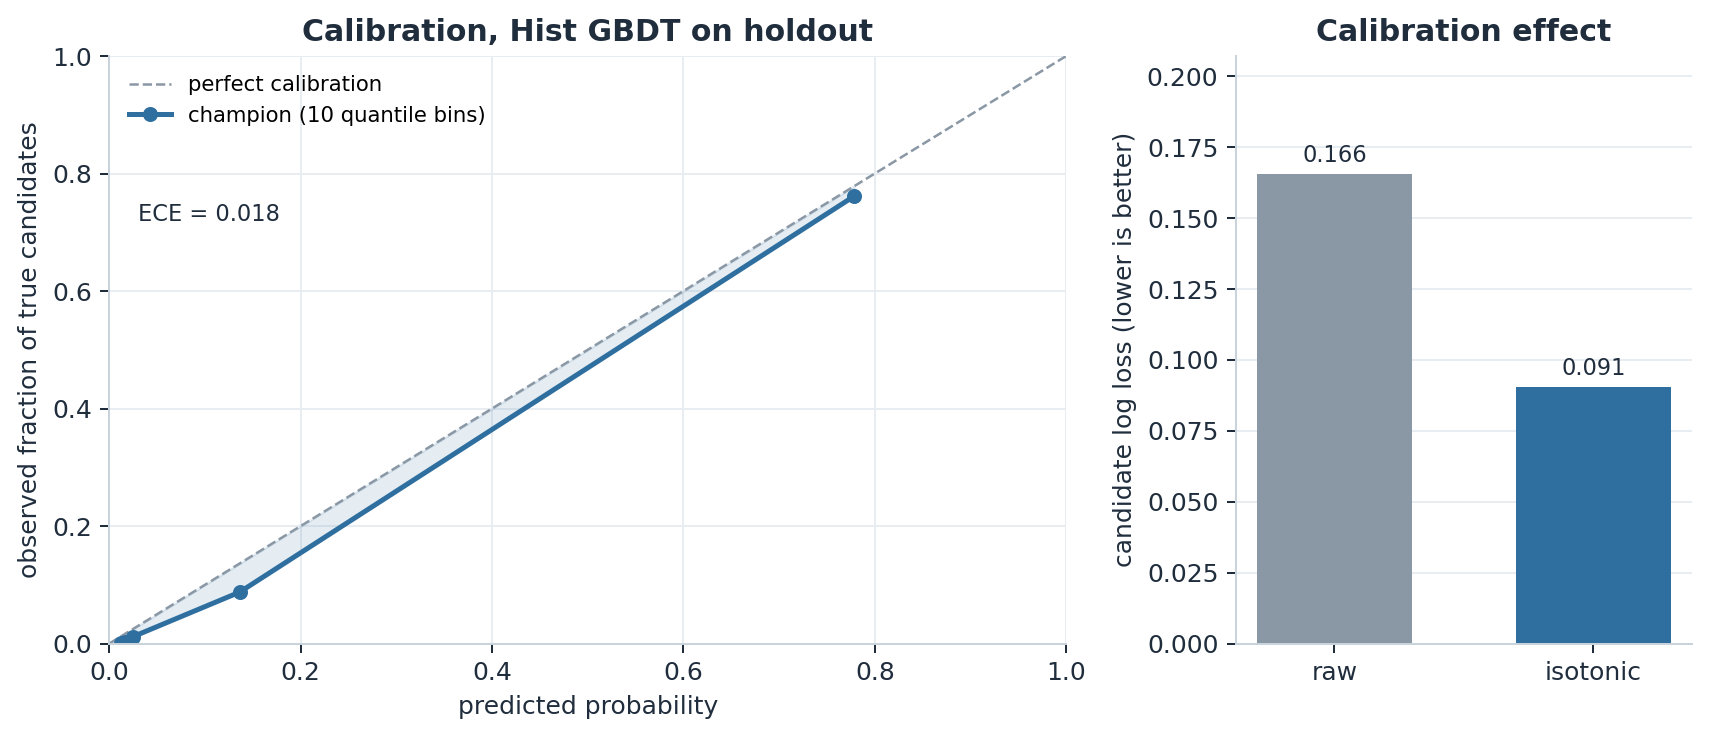
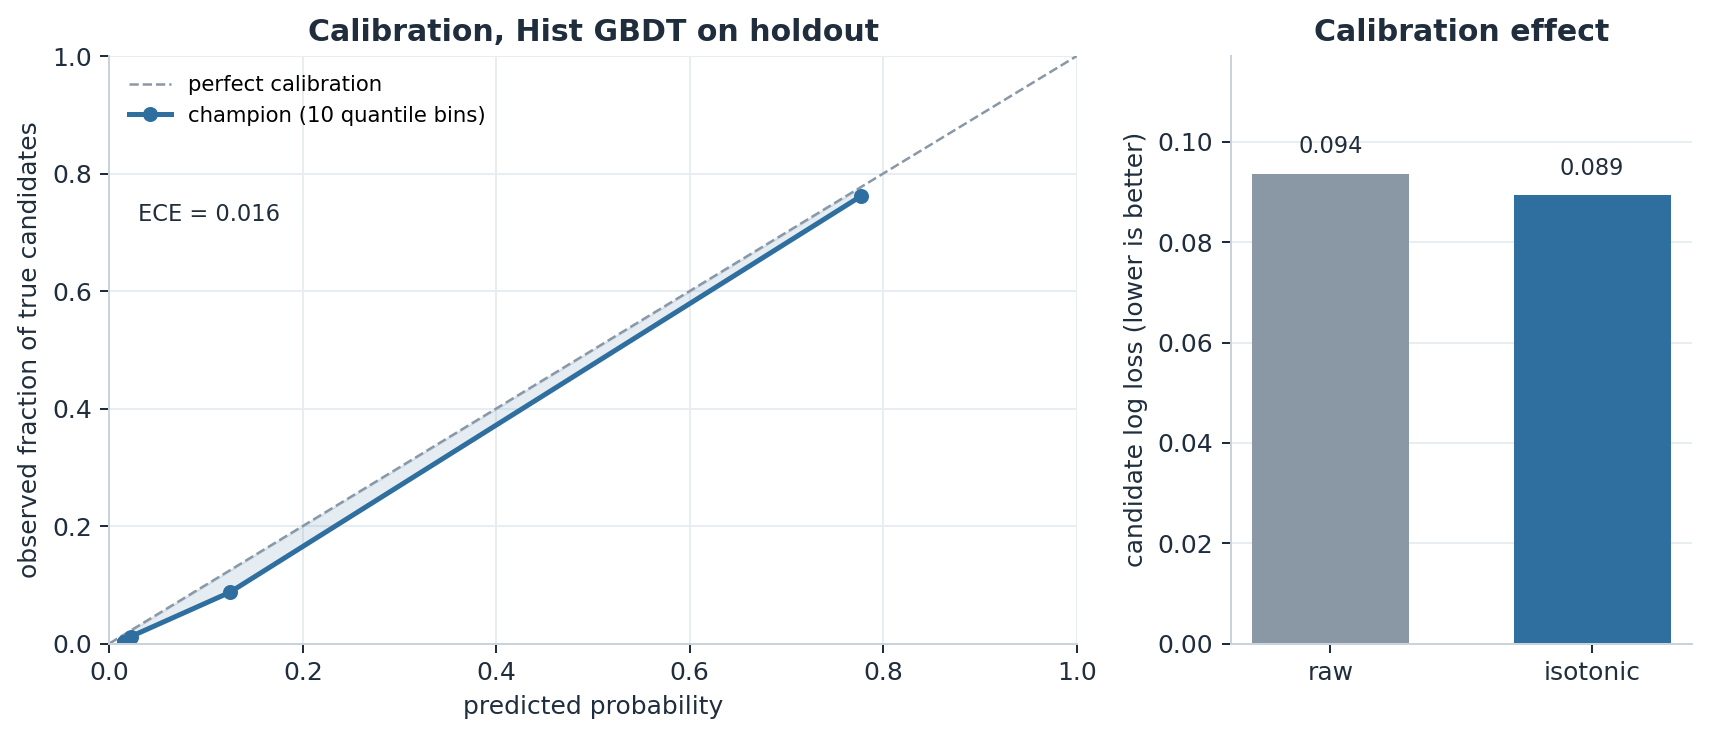
Tune the champion with Bayesian search and promote the tuned bundle
60 TPE trials over a six-parameter Hist GBDT space, grouped 3-fold inner CV on
the dev trips, median-pruned (28 pruned), objective = mean candidate log loss
because that is what the Viterbi decoder consumes. Best config halves CV log
loss (0.188 -> 0.124) at a 0.002 Top-1 cost inside fold noise, and holdout
macro F1 rises 0.817 -> 0.927. Also fixes --params-file so the Optuna
best_params envelope is unwrapped instead of being merged as model kwargs.

diff --git a/scripts/make_tuning_figure.py b/scripts/make_tuning_figure.py
@@ -1,0 +1,179 @@
+#!/usr/bin/env python3
+"""Bayesian tuning figures for report section 7 (owner: B).
+
+Draws the Optuna search history from ``artifacts/optuna_hist_gbdt.db`` and the
+tuned-versus-untuned comparison from ``results/model_runs.csv`` so both pictures
+come from recorded trials, not hand-written numbers.
+
+    python scripts/make_tuning_figure.py
+"""
+from __future__ import annotations
+
+import argparse
+import sys
+from pathlib import Path
+
+import matplotlib
+
+matplotlib.use("Agg")
+
+import matplotlib.pyplot as plt
+import numpy as np
+import pandas as pd
+
+ROOT = Path(__file__).resolve().parents[1]
+sys.path.insert(0, str(ROOT / "src"))
+
+from pathsnap.config import results_dir
+
+INK = "#1f2d3d"
+MUTED = "#9aa0a6"
+ACCENT = "#2f6f9f"
+WARN = "#c0392b"
+LIGHT = "#a8c8df"
+
+
+def _style() -> None:
+    plt.rcParams.update(
+        {
+            "figure.dpi": 110,
+            "savefig.dpi": 180,
+            "savefig.bbox": "tight",
+            "font.size": 10,
+            "axes.edgecolor": "#c9d3dc",
+            "axes.spines.top": False,
+            "axes.spines.right": False,
+            "axes.grid": True,
+            "grid.color": "#e8edf1",
+            "axes.axisbelow": True,
+            "legend.frameon": False,
+            "figure.facecolor": "white",
+        }
+    )
+
+
+def _trial_points(study) -> tuple[np.ndarray, np.ndarray, np.ndarray, np.ndarray]:
+    """(trial numbers, values, best-so-far) with pruned trials marked separately."""
+    numbers, values, pruned_x, pruned_y, best_y = [], [], [], [], []
+    best = np.inf
+    for trial in study.trials:
+        if trial.state.name == "COMPLETE" and trial.value is not None:
+            value = float(trial.value)
+            numbers.append(trial.number)
+            values.append(value)
+            best = min(best, value)
+            best_y.append(best)
+        elif trial.state.name == "PRUNED":
+            history = trial.intermediate_values or {}
+            if history:
+                pruned_x.append(trial.number)
+                pruned_y.append(history[max(history)])
+    return (
+        np.array(numbers, dtype=float),
+        np.array(values, dtype=float),
+        np.array(pruned_x, dtype=float),
+        np.array(pruned_y, dtype=float),
+        np.array(best_y, dtype=float),
+    )
+
+
+def fig_history(study, out: Path) -> Path:
+    numbers, values, pruned_x, pruned_y, best_y = _trial_points(study)
+    fig, ax = plt.subplots(figsize=(7.6, 4.4), constrained_layout=True)
+    if len(pruned_x):
+        ax.scatter(pruned_x, pruned_y, s=14, color=MUTED, alpha=0.7, zorder=2, label="pruned trial")
+    ax.scatter(numbers, values, s=18, color=LIGHT, edgecolor=ACCENT, linewidth=0.6, zorder=3, label="completed trial")
+    ax.plot(numbers, best_y, color=WARN, linewidth=2.0, zorder=4, label="best so far")
+    ax.set_xlabel("trial")
+    ax.set_ylabel("objective: mean candidate log loss")
+    ax.set_title("Bayesian search history — Hist GBDT (TPE, 60 trials, 28 pruned)", color=INK, weight="semibold")
+    ax.legend(loc="upper right", fontsize=9)
+    path = out / "tuning_history.png"
+    fig.savefig(path)
+    plt.close(fig)
+    return path
+
+
+def _untuned_and_tuned_rows() -> tuple[pd.Series, pd.Series]:
+    runs = pd.read_csv(results_dir() / "model_runs.csv")
+    rows = runs[(runs["family"] == "hist_gbdt") & runs["holdout_top1"].notna()]
+    if len(rows) < 2:
+        raise SystemExit("Need both an untuned and a tuned hist_gbdt row in results/model_runs.csv")
+    untuned = rows[rows["params"].str.contains('"learning_rate": 0.1', na=False)]
+    tuned = rows[~rows.index.isin(untuned.index)]
+    if untuned.empty or tuned.empty:
+        untuned = rows.sort_values("utc").iloc[[0]]
+        tuned = rows.sort_values("utc").iloc[[-1]]
+    return untuned.iloc[0], tuned.iloc[0]
+
+
+def fig_tuned_vs_untuned(out: Path) -> Path:
+    untuned, tuned = _untuned_and_tuned_rows()
+    pairs = [
+        ("CV log loss", "cv_log_loss_mean", True),
+        ("Holdout log loss", "holdout_log_loss", True),
+        ("Holdout log loss (calibrated)", "holdout_log_loss_cal", True),
+        ("Holdout Top-1", "holdout_top1", False),
+        ("Student-test Top-1", "test_top1", False),
+        ("Holdout macro F1", "holdout_macro_f1", False),
+    ]
+    x = np.arange(len(pairs))
+    width = 0.36
+    before = [float(untuned[col]) for _, col, _ in pairs]
+    after = [float(tuned[col]) for _, col, _ in pairs]
+    deltas = [b - a for b, a in zip(before, after)]
+    lower_is_better = [inv for _, _, inv in pairs]
+    labels = [name for name, _, _ in pairs]
+
+    fig, ax = plt.subplots(figsize=(8.6, 4.6), constrained_layout=True)
+    bars_a = ax.bar(x - width / 2, before, width, color=LIGHT, label="untuned", zorder=3)
+    bars_b = ax.bar(x + width / 2, after, width, color=ACCENT, label="tuned", zorder=3)
+    for bar, delta, better_low in zip(bars_b, deltas, lower_is_better):
+        improvement = (delta > 0) if better_low else (delta < 0)
+        text = f"{'+' if delta < 0 else '−'}{abs(delta):.3f}"
+        ax.annotate(
+            text,
+            (bar.get_x() + bar.get_width() / 2, bar.get_height()),
+            xytext=(0, 4),
+            textcoords="offset points",
+            ha="center",
+            fontsize=8,
+            color="#1e7d32" if improvement else WARN,
+            weight="semibold",
+        )
+    ax.set_xticks(x)
+    ax.set_xticklabels(labels, rotation=18, ha="right", fontsize=9)
+    ax.set_ylabel("metric value")
+    ax.set_ylim(0, max(max(before), max(after)) * 1.18)
+    ax.set_title("Tuned vs untuned Hist GBDT — same frozen splits, same seed", color=INK, weight="semibold")
+    ax.legend(loc="upper left", fontsize=9)
+    path = out / "tuned_vs_untuned.png"
+    fig.savefig(path)
+    plt.close(fig)
+    return path
+
+
+def main() -> None:
+    ap = argparse.ArgumentParser()
+    ap.add_argument("--out", default=str(results_dir() / "figures"))
+    args = ap.parse_args()
+    _style()
+
+    try:
+        import optuna
+    except ImportError:
+        raise SystemExit("optuna is required: .venv/bin/pip install optuna")
+
+    db = ROOT / "artifacts" / "optuna_hist_gbdt.db"
+    if not db.exists():
+        raise SystemExit(f"Missing {db}; run scripts/tune_optuna.py first")
+    study = optuna.load_study(study_name="hist_gbdt", storage=f"sqlite:///{db}")
+
+    out = Path(args.out)
+    out.mkdir(parents=True, exist_ok=True)
+    for path in (fig_history(study, out), fig_tuned_vs_untuned(out)):
+        print(f"wrote {path} ({path.stat().st_size / 1024:.0f} KB)")
+
+
+if __name__ == "__main__":
+    main()

diff --git a/scripts/train_models.py b/scripts/train_models.py
@@ -55,7 +55,10 @@ def train_one(args, cfg, family: str) -> dict:
     params = dict(model_zoo.DEFAULT_PARAMS[family])
     if args.params_file:
         with open(args.params_file) as fh:
-            params.update(json.load(fh))
+            loaded = json.load(fh)
+        # tune_optuna.py writes a payload wrapping the params under "best_params";
+        # accept either that envelope or a plain parameter dict.
+        params.update(loaded.get("best_params", loaded))
     if args.params:
         params.update(json.loads(args.params))
 

diff --git a/results/section_3_1_table.md b/results/section_3_1_table.md
@@ -1,6 +1,6 @@
 | # | Model | Algorithm family | Key configuration | CV macro F1 | Top-1 acc. (holdout) | Route continuity | Student-test macro F1 | Log loss (holdout) | Inference |
 |---|-------|------------------|-------------------|-------------|----------------------|------------------|----------------------|--------------------|-----------|
-| 1 | Hist GBDT (champion) | Gradient-boosted trees | `lr=0.1, iters=250, leaves=31, min_leaf=50, l2=1.0, weight=balanced` | 0.702 | 0.749 | 0.956 | 0.885 | 0.091 | 1.17 ms / 1k rows |
+| 1 | Hist GBDT (champion) | Gradient-boosted trees | `lr=0.04696288059617787, iters=100, leaves=94, min_leaf=14, l2=0.01589071745760843, weight=None` | 0.890 | 0.746 | 0.956 | 0.884 | 0.089 | 0.64 ms / 1k rows |
 | 2 | MLP | Feed-forward neural net | `hidden=64-32, alpha=0.001, lr0=0.001, batch=4096, iters=20` | 0.674 | 0.743 | 0.954 | 0.877 | 0.100 | 0.08 ms / 1k rows |
 | 3 | Extra Trees | Extremely randomised trees | `trees=200, depth=32, min_leaf=25, feat=sqrt, weight=balanced_subsample` | 0.668 | 0.740 | 0.951 | 0.875 | 0.093 | 2.37 ms / 1k rows |
 | 4 | Nystroem SGD | Nystroem RBF + SGD | `components=64, gamma=0.1, alpha=0.0001, avg=True` | 0.661 | 0.731 | 0.952 | 0.872 | 0.118 | 0.22 ms / 1k rows |

diff --git a/results/model_comparison.md b/results/model_comparison.md
@@ -6,7 +6,7 @@ so the gap between the two columns is the candidate miss rate, not model error.
 
 | family | calibrated | cv_top1_mean | cv_top1_std | holdout_top1 | holdout_top1_covered | holdout_macro_f1 | holdout_log_loss | test_top1 | test_log_loss | fit_seconds | inference_ms_per_1k |
 |---|---|---|---|---|---|---|---|---|---|---|---|
-| hist_gbdt | yes | 0.7355 | 0.1711 | 0.7485 | 0.8622 | 0.8170 | 0.1658 | 0.8375 | 0.0980 | 4.5000 | 1.1700 |
+| hist_gbdt | yes | 0.7357 | 0.1708 | 0.7465 | 0.8599 | 0.9267 | 0.0937 | 0.8359 | 0.0984 | 3.7000 | 0.6400 |
 | mlp | yes | 0.7312 | 0.1702 | 0.7426 | 0.8554 | 0.7958 | 0.1698 | 0.8263 | 0.1066 | 3.2000 | 0.0800 |
 | extra_trees | yes | 0.7303 | 0.1708 | 0.7399 | 0.8522 | 0.7882 | 0.2107 | 0.8266 | 0.1017 | 20.7000 | 2.3700 |
 | nystroem_sgd | yes | 0.7212 | 0.1664 | 0.7313 | 0.8424 | 0.7689 | 0.2423 | 0.8062 | 0.1224 | 2.0000 | 0.2200 |
